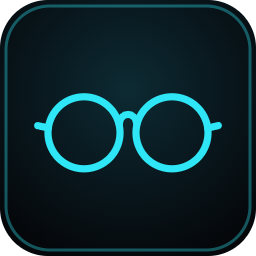
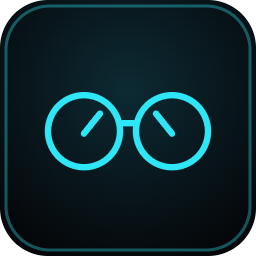
Atticus's glasses, with glints that make an A
Two fine round lenses and a straight bridge; a glint in each lens leans toward
the other, so together they are the legs of an A. Heavier lines at small sizes.
In the app, the VS Code extension and the IntelliJ plugin.

Changed region(s): [[0.125, 0.3438, 0.875, 0.6875]]

diff --git a/packages/ui/src/app/nav.tsx b/packages/ui/src/app/nav.tsx
@@ -5,7 +5,10 @@ import { groupLabel, MAIN, MORE, MORE_GROUPS, type ScreenDef } from "./screens.j
 
 const T = COPY.menu;
 
-/** Atticus's mark: a pair of round wire glasses (docs/brand/glasses.svg), in the theme's accent. */
+/**
+ * Atticus's mark: Atticus Finch's glasses (docs/brand/glasses.svg), a glint in each lens leaning
+ * toward the other like the legs of an A, in the theme's accent.
+ */
 function Logo() {
   return (
     <svg
@@ -15,16 +18,15 @@ function Logo() {
       viewBox="0 0 24 24"
       fill="none"
       stroke="var(--accent)"
-      strokeWidth="1.4"
       strokeLinecap="round"
-      strokeLinejoin="round"
       style={{ filter: "drop-shadow(0 0 var(--glow-size) var(--accent))" }}
     >
-      <circle cx="6.5" cy="12.6" r="4.5" />
-      <circle cx="17.5" cy="12.6" r="4.5" />
-      <path d="M10.9 11.5 C11.1 9.9 12.9 9.9 13.1 11.5" />
-      <path d="M2.05 12.0 L0.7 11.7" />
-      <path d="M21.95 12.0 L23.3 11.7" />
+      <g strokeWidth="1.25">
+        <circle cx="6.5" cy="12.4" r="4.5" />
+        <circle cx="17.5" cy="12.4" r="4.5" />
+        <path d="M11 11.4 H13" />
+      </g>
+      <path strokeWidth="1.05" d="M6.5 12.7 L8.5 10.2 M17.5 12.7 L15.5 10.2" />
     </svg>
   );
 }

diff --git a/CHANGELOG.md b/CHANGELOG.md
@@ -6,7 +6,7 @@ All notable changes to Atticus. Versions follow [Semantic Versioning](https://se
 
 ### A pair of glasses
 
-- Atticus's mark is a pair of round wire glasses, like Atticus Finch's (`docs/brand/glasses.svg`): two lenses, an arched bridge and short temples in one even line, heavier as it gets small. It is the app's header and favicon, the VS Code activity bar and Marketplace icon, and the IntelliJ tool window and plugin icon.
+- Atticus's mark is Atticus Finch's glasses (`docs/brand/glasses.svg`): two fine round lenses and a straight bridge, with a glint in each lens leaning toward the other so the two glints are the legs of an A. It is the app's header and favicon, the VS Code activity bar and Marketplace icon, and the IntelliJ tool window and plugin icon.
 
 ### Every screen says what is happening
 
